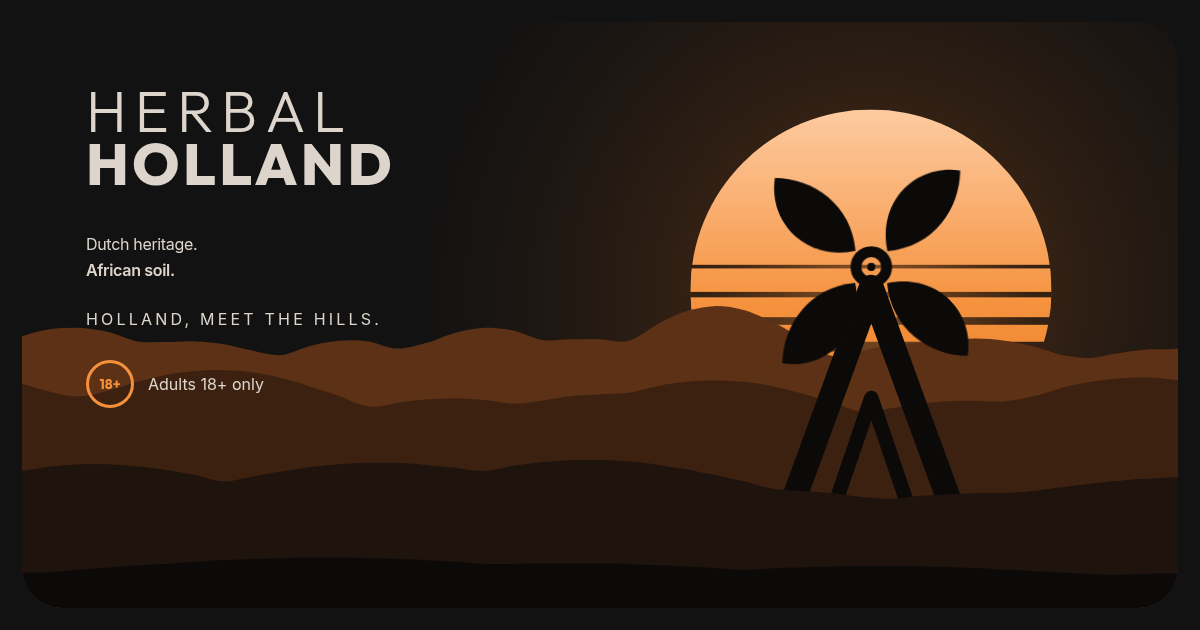
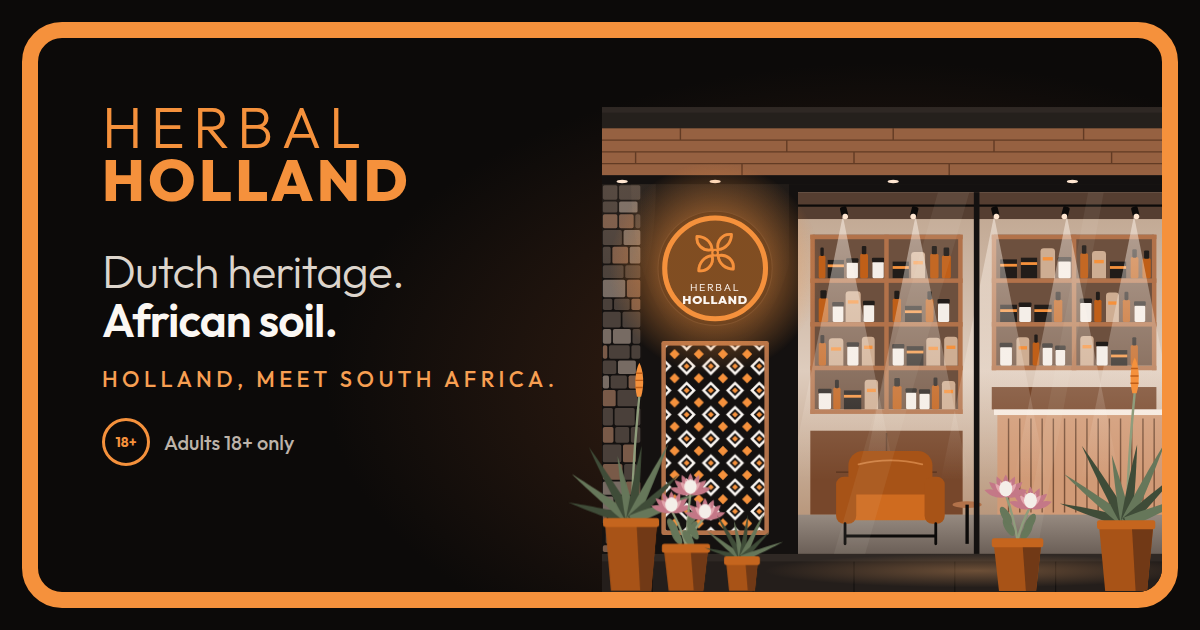
herbalholland.com: national brand site with the store look (on preview)
- Brand-first home: "Holland, meet South Africa." over an illustrated storefront at dusk
  (the round sign switches on after the 18+ gate), a brand section, seven categories "on
  the shelf", the Amsterdam → South Africa globe, "Holland, meet the Hills." as the first
  stores, and "Opening nationally" with a province map (Natural Earth boundaries).
- One stores list in facts.ts drives the hero line, pins, map, /stores, About and press.
- New /stores page: stores by province, the map, the store concept renders (cropped: no
  third-party posters, health-claim wall or "Bud Bar"), franchise call to action.
- About tells the national story; the African geometric pattern is the site's signature.
- Budgets JS 45 KB / CSS 55 KB; home LCP ≈ 1.1 s throttled, CLS 0; share image redrawn.
- Runbook: preview first (versions upload --preview-alias), then versions deploy.

Claude-Session: https://claude.ai/code/session_018vsjrGfvxYr17q99sCwpK4

diff --git a/sites/herbalholland.com/styles/site.css b/sites/herbalholland.com/styles/site.css
@@ -533,6 +533,7 @@ main > section ~ section, .ftr { content-visibility: auto; contain-intrinsic-siz
 :is(.sc--first, .sc--notfound) .sc__pos { transform-origin: 1150px 565px; }
 .first .stores__grid { position: relative; z-index: 3; margin-top: clamp(-5rem, -5vw, -2rem); }
 .first > .band { margin-top: clamp(4.5rem, 9vw, 8rem); }
+.first + .sheet { margin-top: 0; border-radius: 0; }
 @media (max-aspect-ratio: 1 / 1) {
   /* On a phone the words come first and the sunset below them, never on top of each other. */
   .first__stage { display: block; min-height: 0; }
@@ -567,7 +568,7 @@ main > section ~ section, .ftr { content-visibility: auto; contain-intrinsic-siz
 .za__k { display: inline-flex; align-items: center; gap: .5rem; }
 .za__k::before { content: ""; width: .75rem; height: .75rem; border-radius: 50%; background: var(--brand-500); }
 .za__k--opening::before { background: var(--ink-50); border: 3px solid var(--brand-600); }
-@media (max-width: 639px) { .za__names text { font-size: 26px; } .za-pin__name { font-size: 34px; } }
+@media (max-width: 639px) { .za__names text { font-size: 26px; } .za__names .za__nbname { font-size: 21px; } .za-pin__name { font-size: 34px; } }
 
 /* ── Stores ────────────────────────────────────────────────────────────── */
 .prov { margin-top: clamp(2rem, 4vw, 3rem); }
@@ -593,13 +594,14 @@ main > section ~ section, .ftr { content-visibility: auto; contain-intrinsic-siz
 .concept__fig img { width: 100%; height: auto; border-radius: 1.5rem; background: var(--ink-800); }
 .concept__fig figcaption { font-size: .85rem; color: var(--ink-400); }
 .concept__fig b { margin-right: .5rem; font: 600 .72rem var(--display); letter-spacing: .2em; text-transform: uppercase; color: var(--brand-400); }
-.concept > .band { margin-top: clamp(4.5rem, 9vw, 8rem); }
 
 /* ── About: the chapters ───────────────────────────────────────────────── */
 .chaps { margin-top: clamp(4rem, 8vw, 7rem); }
 .chaps__list { display: grid; gap: 1rem; margin-top: clamp(2rem, 4vw, 3rem); }
 @media (min-width: 900px) { .chaps__list { grid-template-columns: 1.2fr 1fr; } }
-.chap--next { display: grid; align-content: end; background: var(--ink-950); color: var(--ink-300); }
+.chap--next { position: relative; display: grid; align-content: end; background: var(--ink-950); color: var(--ink-300); }
+/* Beside the first chapter's hills, the next one has the stores' panel pattern, fading into the dark. */
+@media (min-width: 900px) { .chap--next::before { content: ""; position: absolute; inset: 0 0 auto; height: 6.5rem; background: var(--pat) 0 0 / 20px 20px; opacity: .2; -webkit-mask-image: linear-gradient(#000, transparent); mask-image: linear-gradient(#000, transparent); } }
 .chap__b { max-width: 34rem; }
 .sheet .chap--next .chap__t { color: var(--ink-50); }
 

diff --git a/sites/herbalholland.com/content.ts b/sites/herbalholland.com/content.ts
@@ -108,7 +108,7 @@ export const HOME = {
   brand: {
     eyebrow: "Our brand",
     title: "What Herbal Holland stands for",
-    intro: "It's built into the platform every store runs on, so it holds on a busy Saturday as well as a quiet Tuesday.",
+    intro: "Every store runs on one shared platform, so our standards hold on a busy Saturday as well as a quiet Tuesday.",
     items: [
       { key: "heritage", title: "Dutch heritage", body: "The Amsterdam coffee-shop tradition: a warm welcome, and someone who can tell you exactly what's on offer." },
       { key: "lab", title: "Lab-tested and traceable", body: "An independent lab tests every batch before it's sold, and the code on the pack traces it back to the farm." },
@@ -183,6 +183,8 @@ export const HOME = {
     eyebrow: "First stores",
     title: ["Holland, meet", "the Hills."],
     lede: "Holland is flat. KwaZulu-Natal isn't. Our first stores open in the hill towns of {names} on {opening}, each owned and run by a local franchisee.",
+    // Once they're open.
+    ledeOpen: "Holland is flat. KwaZulu-Natal isn't. Our first stores opened in the hill towns of {names} on {opening}, each owned and run by a local franchisee.",
     stores: [
       { key: "hillcrest", area: "Upper Highway, eThekwini", line: "From the flatlands to the Valley of a Thousand Hills." },
       { key: "hilton", area: "KZN Midlands", line: "From the polders to the Midlands." },
@@ -290,7 +292,13 @@ export const ABOUT = {
     title: "Holland, meet South Africa",
     intro: "A national network of local stores, opening one town at a time.",
     items: [
-      { key: "first", label: "Chapter one", title: "The hill towns", body: "Holland is flat. KwaZulu-Natal isn't. Our first stores open in {names} on {opening}, {km}\u00a0km apart in the {provinces} hills." },
+      {
+        key: "first",
+        label: "Chapter one",
+        title: "The hill towns",
+        body: "Holland is flat. KwaZulu-Natal isn't. Our first stores open in {names} on {opening}, {km}\u00a0km apart in the {provinces} hills.",
+        bodyOpen: "Holland is flat. KwaZulu-Natal isn't. Our first stores opened in {names} on {opening}, {km}\u00a0km apart in the {provinces} hills.",
+      },
       { key: "next", label: "Next", title: "More towns", body: "Every Herbal Holland store is owned and run by a local franchisee, on one shared platform and one set of standards. More stores are to be announced." },
     ],
     stores: "See our stores",

diff --git a/sites/herbalholland.com/build.ts b/sites/herbalholland.com/build.ts
@@ -15,7 +15,7 @@ import { gzipSync } from "node:zlib";
 import { createElement, type FunctionComponent } from "react";
 import { renderToStaticMarkup } from "react-dom/server";
 import { dayKey } from "@/lib/format";
-import { FACTS, greatCircleKm } from "./facts";
+import { FACTS, firstStores, greatCircleKm } from "./facts";
 import { site } from "./src/layout";
 import { patternUrl } from "./src/art";
 import { AppIcon, OG_CSS, OgCard } from "./src/og";
@@ -138,7 +138,13 @@ async function main() {
   const [s1, s2] = FACTS.stores;
   if (s1 && s2 && Math.round(greatCircleKm(s1, s2)) !== FACTS.kmBetweenStores)
     off.push(`${s1.name} → ${s2.name} is ${greatCircleKm(s1, s2).toFixed(1)} km by great circle, but facts.ts says ${FACTS.kmBetweenStores}`);
+  const first = firstStores()[0];
+  if (first && !(first.key in FACTS.km)) off.push(`facts.ts needs the Amsterdam distance for ${first.name}, the first store (km.${first.key})`);
+  for (const s of FACTS.stores) if (!/^\d{4}-\d{2}-\d{2}$/.test(s.opens)) off.push(`facts.ts: ${s.name} opens "${s.opens}", not a YYYY-MM-DD date`);
   if (off.length) throw new Error(off.join("\n"));
+  // A store still marked "opening" after its day: the pages would go on saying when it opens.
+  for (const s of FACTS.stores)
+    if (s.status === "opening" && s.opens < day) console.warn(`  ⚠ facts.ts: ${s.name} was due to open on ${s.opens} but is still marked "opening": set its status to "open".`);
 
   rmSync(DIST, { recursive: true, force: true });
   mkdirSync(join(DIST, "assets"), { recursive: true });
@@ -164,7 +170,8 @@ async function main() {
   site.day = day;
   site.year = Number(day.slice(0, 4));
 
-  if (process.argv.includes("--images")) await renderImages(css);
+  // The images are drawn with the stylesheet's own token names (OG_CSS uses them), so before tokens are shortened.
+  if (process.argv.includes("--images")) await renderImages(await styles(precomputeColors(cssSource)));
 
   // Pages.
   const problems: string[] = [];

diff --git a/sites/herbalholland.com/src/og.tsx b/sites/herbalholland.com/src/og.tsx
@@ -1,9 +1,9 @@
-// The share card (og.png, 1200 × 630) and the home-screen icon, drawn with the site's own art and styles. build.ts
-// --images renders them to PNG with Chromium, as scripts/merch-export.tsx does for the merch files.
+// The share card (og.png, 1200 × 630: the storefront at dusk, its sign lit) and the home-screen icon, drawn with the
+// site's own art and styles. build.ts --images renders them to PNG with Chromium, as scripts/merch-export.tsx does for
+// the merch files.
 import { BRAND } from "../content";
-import { AgeBadge, Mark, Scene, Sprite, Wordmark, type SceneSpec } from "./art";
-
-const OG_SCENE: SceneSpec = { sun: { x: 1175, y: 560, r: 250 }, mill: true, hills: ["hl1", "hl2", "hl3", "hl4"] };
+import { AgeBadge, Mark, Sprite, Wordmark } from "./art";
+import { Storefront } from "./storefront";
 
 export function OgCard() {
   return (
@@ -11,7 +11,7 @@ export function OgCard() {
       <Sprite />
       <div className="og">
         <div className="og__frame">
-          <Scene kind="og" spec={OG_SCENE} />
+          <Storefront className="og__sf" />
           <div className="og__text">
             <Wordmark className="og__wm" />
             <p className="og__line">
@@ -44,7 +44,7 @@ export const OG_CSS = `
 html,body{margin:0;background:var(--ink-950)}body::after{display:none}
 .og{width:1200px;height:630px;padding:22px;background:var(--ink-950)}
 .og__frame{position:relative;height:100%;border:16px solid var(--brand-500);border-radius:40px;overflow:hidden;background:radial-gradient(70% 80% at 76% 62%,color-mix(in oklab,var(--brand-800) 45%,var(--ink-950)),var(--ink-950) 72%)}
-.og .sc{position:absolute;inset:0}
+.og .og__sf{width:560px}
 .og__text{position:absolute;left:64px;top:62px;display:grid;gap:22px;justify-items:start}
 .og__wm{font-size:58px;color:var(--brand-500)}
 .og__line{margin-top:18px;font:300 46px/1.08 var(--display);letter-spacing:-.02em;color:var(--ink-200)}

diff --git a/sites/herbalholland.com/src/map.tsx b/sites/herbalholland.com/src/map.tsx
@@ -7,6 +7,12 @@ import { FACTS, shortDay, storeProvinces } from "../facts";
 import { cx } from "./art";
 import { NEIGHBOUR_SHAPES, PROVINCE_SHAPES, ZA_BOX, project } from "./za";
 
+type Code = ProvinceCode | keyof typeof NEIGHBOUR_SHAPES;
+/** Where a name sits, where Natural Earth's label point would crowd a neighbour's name or a store's (legibility only;
+ * the shapes are untouched). */
+const NAME_AT: Partial<Record<Code, readonly [x: number, y: number]>> = { MP: [838, 248], NW: [525, 300], LS: [692, 556], SZ: [902, 320] };
+const nameAt = (k: Code, [x, y]: readonly [number, number], dy = 0) => NAME_AT[k] ?? ([x, y + dy] as const);
+
 export function ZaMap({ id, className }: { id: string; className?: string }) {
   const lit = new Set(storeProvinces());
   const pins = FACTS.stores.map((s) => ({ s, at: project(s.lat, s.lon) }));
@@ -30,12 +36,12 @@ export function ZaMap({ id, className }: { id: string; className?: string }) {
         ))}
         <g className="za__names" aria-hidden="true">
           {(Object.keys(PROVINCE_SHAPES) as ProvinceCode[]).map((k) => (
-            <text key={k} className={cx(lit.has(k) && "on")} x={PROVINCE_SHAPES[k].label[0]} y={PROVINCE_SHAPES[k].label[1]}>
+            <text key={k} className={cx(lit.has(k) && "on")} x={nameAt(k, PROVINCE_SHAPES[k].label)[0]} y={nameAt(k, PROVINCE_SHAPES[k].label)[1]}>
               {PROVINCES[k]}
             </text>
           ))}
           {(Object.keys(NEIGHBOUR_SHAPES) as (keyof typeof NEIGHBOUR_SHAPES)[]).map((k) => (
-            <text key={k} className="za__nbname" x={NEIGHBOUR_SHAPES[k].label[0]} y={NEIGHBOUR_SHAPES[k].label[1] + 6}>
+            <text key={k} className="za__nbname" x={nameAt(k, NEIGHBOUR_SHAPES[k].label, 6)[0]} y={nameAt(k, NEIGHBOUR_SHAPES[k].label, 6)[1]}>
               {MAP.neighbours[k]}
             </text>
           ))}

diff --git a/sites/herbalholland.com/src/pages/home.tsx b/sites/herbalholland.com/src/pages/home.tsx
@@ -19,7 +19,9 @@ export const coords = (p: { lat: number; lon: number }) => `${dms(p.lat, "N", "S
 /** "Our first stores open in KwaZulu-Natal on Tuesday 1 December 2026…", or, once every store is open, the plain line. */
 export function openingLine(soon: string, open: string) {
   const next = nextOpening();
-  if (!next) return fill(open, { provinces: provinceNames(storeProvinces()) });
+  // Before the first opening day: where and when. From then on: where stores are open (the next ones show on /stores).
+  const trading = openStores();
+  if (trading.length || !next) return fill(open, { provinces: provinceNames(storeProvinces(trading.length ? trading : undefined)) });
   return fill(soon, { provinces: provinceNames(storeProvinces(openingStores())), opening: longDate(next) });
 }
 
@@ -357,7 +359,7 @@ function First() {
             <Words text={f.title} accent />
           </h2>
           <p className="lede first__lede" data-r="">
-            {fill(f.lede, { names: listOf(stores.map((s) => s.name)), opening })}
+            {fill(stores.every((s) => s.status === "open") ? f.ledeOpen : f.lede, { names: listOf(stores.map((s) => s.name)), opening })}
           </p>
         </div>
         <Scene kind="first" spec={SCENES.first} className="first__scene" />

diff --git a/sites/herbalholland.com/src/pages/about.tsx b/sites/herbalholland.com/src/pages/about.tsx
@@ -51,7 +51,7 @@ export function AboutPage() {
                 <div className="chap__copy">
                   <p className="eyebrow">{c.label}</p>
                   <h3 className="h3 chap__t">{c.title}</h3>
-                  <p className="chap__b">{fill(c.body, chapter)}</p>
+                  <p className="chap__b">{fill("bodyOpen" in c && first.every((s) => s.status === "open") ? c.bodyOpen : c.body, chapter)}</p>
                   {i === 0 ? (
                     <Btn href="/stores" kind="dark" className="btn--sm">
                       {chapters.stores}

diff --git a/sites/herbalholland.com/src/pages/stores.tsx b/sites/herbalholland.com/src/pages/stores.tsx
@@ -87,7 +87,6 @@ export function StoresPage() {
             ))}
           </div>
         </div>
-        <div className="band" aria-hidden="true" />
       </section>
     </Page>
   );

diff --git a/docs/RUNBOOK.md b/docs/RUNBOOK.md
@@ -25,7 +25,10 @@ reports) and Postgres can't live on Cloudflare.
    TLS ≥ 1.2 (1.3 on), SSL Full (strict), HSTS (1 year, include subdomains, no preload; the site's `_headers` sends
    the same, so keep them in step), Email Routing forwarding hello@, franchise@, press@ and careers@ to the team. To
    release a change: `npx tsx sites/herbalholland.com/build.ts`, then from `sites/herbalholland.com`
-   `npx wrangler@4 d1 migrations apply herbalholland-com-eu --remote && npx wrangler@4 deploy`. Rebuild and deploy on or
+   `npx wrangler@4 d1 migrations apply herbalholland-com-eu --remote && npx wrangler@4 deploy`. For a change the owner
+   should see first: `npx wrangler@4 versions upload --preview-alias preview` (→ `https://preview-herbalholland-com.<account>.workers.dev`,
+   same database and email as live, so don't send test enquiries), then `npx wrangler@4 versions deploy <version-id>`
+   to make that exact version live. Rebuild and deploy on or
    after a press release's date (the site is static), and set `facts.ts` `shop.url` when the shop opens. Once the
    platform is live, give the Worker `APP_ENQUIRY_URL` (`https://herbalholland.co.za/api/site/enquiries`) and
    `APP_ENQUIRY_SECRET` (= the app's `SITE_ENQUIRY_SECRET`) with `wrangler secret put`, so enquiries land in HQ →
